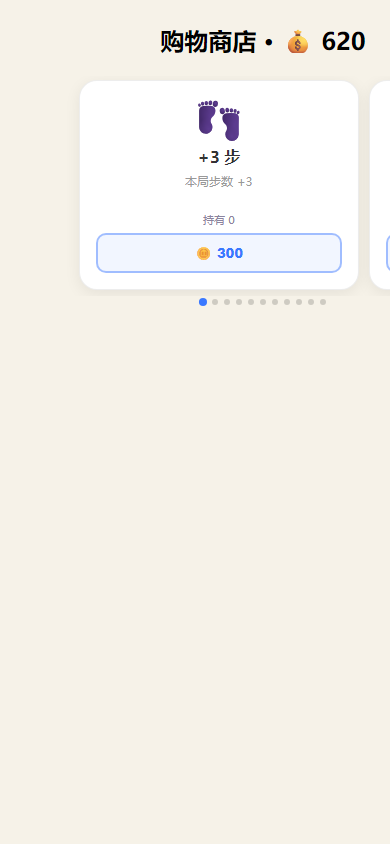
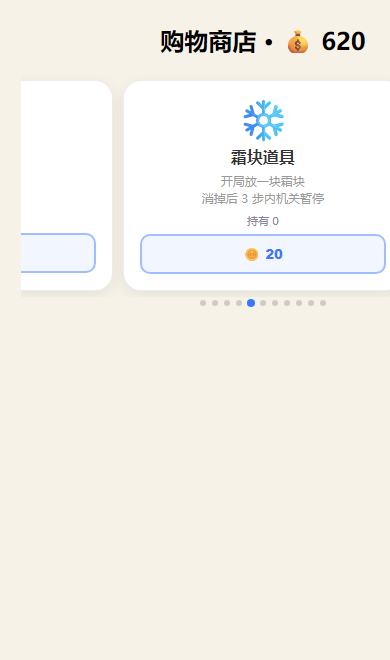
Update files

diff --git a/test-smoke.js b/test-smoke.js
@@ -694,10 +694,11 @@ function check(name, ok) {
   check('更多玩法右上角黑色 + 最佳分带「分」',
     cssSrc.includes('.mode-head span { font-size: 11px; color: #222;') &&
     jsSrc.includes("'最佳 ' + best[k] + ' 分'"));
-  check('商店有「开局线消」200 金币，排在开局炸弹上面',
-    fs.readFileSync(path.join(__dirname, 'js', 'tasks.js'), 'utf8').includes("{ key: 'startLine', name: '开局线消', price: 200") &&
-    fs.readFileSync(path.join(__dirname, 'js', 'tasks.js'), 'utf8').indexOf("key: 'startLine'") <
-      fs.readFileSync(path.join(__dirname, 'js', 'tasks.js'), 'utf8').indexOf("key: 'startBomb'"));
+  check('商店有「线消道具」300 金币（比 180 的炸弹贵，按消除得分定价）', (() => {
+    const t = fs.readFileSync(path.join(__dirname, 'js', 'tasks.js'), 'utf8');
+    return t.includes("{ key: 'startLine', name: '线消道具', price: 300") &&
+      t.indexOf("key: 'startLine'") > t.indexOf("key: 'startBomb'");
+  })());
   check('所有滑动区域不显示滚动条灰线',
     cssSrc.includes('*::-webkit-scrollbar { width: 0; height: 0; display: none; }') &&
     !cssSrc.includes('scrollbar-thumb'));
@@ -2475,7 +2476,7 @@ function check(name, ok) {
     });
   })());
 
-  check('README 极简化：有目录板块且按仓库根列表顺序，不再写长篇玩法', (() => {
+  check('README 目录是树形结构（├──/└── + 行内说明），仓库根列表顺序不变', (() => {
     const md = fs.readFileSync('README.md', 'utf8');
     const order = ['_backend', '_preview', '_sql', 'assets', 'css', 'js',
       '.gen-preview.js', '.gitattributes', '.gitignore',
@@ -2483,25 +2484,40 @@ function check(name, ok) {
       'README.md', '_gen-chaptermap.js', '_gen-levels.js', 'index.html',
       'project.config.json', 'project.private.config.json', 'test-longpress.js', 'test-smoke.js'];
     let pos = -1;
-    return order.every((name) => {
+    const inOrder = order.every((name) => {
       const i = md.indexOf(name, pos + 1);
       if (i < 0) return false;
       pos = i;
       return true;
-    }) && md.length < 2800 && /^\s{2}- /m.test(md);
+    });
+    return inOrder && /├── /.test(md) && /└── /.test(md) && /│   └── /.test(md) &&
+      /├── js\/\s+# 游戏逻辑/.test(md) && md.length < 3200;
   })());
 
-  check('商店按「难易 × 能力」排价：新道具齐全且价格阶梯递增', (() => {
+  check('商店按「消除得分」定价：颜料 500 > 线消 300 > 螺旋桨 250 > 彩虹 230 > 磁铁 210 > 炸弹 180 > 霜块 20', (() => {
     const shop = sandbox.Tasks.SHOP;
     const by = (k) => shop.find((x) => x.key === k);
-    const need = ['startFrost', 'startMagnet', 'startPropeller', 'startPaint'];
+    const need = ['startFrost', 'startBomb', 'startMagnet', 'rainbow', 'startPropeller', 'startLine', 'startPaint'];
     if (!need.every((k) => by(k))) return false;
-    return by('startLine').price === 200 && by('startBomb').price === 200 &&
-      by('startFrost').price === 300 && by('startMagnet').price === 350 &&
-      by('startPropeller').price === 400 && by('startPaint').price === 450 &&
-      by('rainbow').price === 500 &&
-      by('startFrost').icon === '❄' && by('startMagnet').icon === '🧲' &&
-      by('startPropeller').icon === '🛩' && by('startPaint').icon === '🎨';
+    return by('startPaint').price === 500 && by('startLine').price === 300 &&
+      by('startPropeller').price === 250 && by('rainbow').price === 230 &&
+      by('startMagnet').price === 210 && by('startBomb').price === 180 &&
+      by('startFrost').price === 20 &&
+      // 商店里特殊道具按价格从低到高排，霜块最便宜、颜料最贵
+      shop.findIndex((x) => x.price === 20) < shop.findIndex((x) => x.price === 500);
+  })());
+
+  check('特殊道具都叫「xx道具」，说明里不留分号、后半句换行显示', (() => {
+    const shop = sandbox.Tasks.SHOP;
+    const specials = ['startFrost', 'startBomb', 'startMagnet', 'startPropeller', 'startLine', 'startPaint', 'rainbow'];
+    const namesOk = specials.every((k) => {
+      const it = shop.find((x) => x.key === k);
+      return it && /道具$/.test(it.name) && !/^开局/.test(it.name);
+    });
+    const noSemi = specials.every((k) => shop.find((x) => x.key === k).desc.indexOf('；') < 0);
+    const multi = ['startFrost', 'startMagnet', 'startPropeller', 'startPaint']
+      .every((k) => shop.find((x) => x.key === k).desc.indexOf('\n') > 0);
+    return namesOk && noSemi && multi && /desc\.replace\(\/\\n\/g, '<br>'\)/.test(jsSrc);
   })());
 
   check('商店做成横滑卡片（一次一张 + 圆点指示），背包仍是竖排列表',

diff --git a/index.html b/index.html
@@ -12,8 +12,8 @@
 <link rel="preload" as="image" type="image/webp" href="./assets/4.webp">
 <link rel="preload" as="image" type="image/webp" href="./assets/5.webp">
 <link rel="preload" as="image" type="image/png" href="./assets/nailong.png">
-<link rel="stylesheet" href="./css/style.css?v=20261108r">
-<link rel="stylesheet" href="./css/themes.css?v=20261108r">
+<link rel="stylesheet" href="./css/style.css?v=20261108s">
+<link rel="stylesheet" href="./css/themes.css?v=20261108s">
 </head>
 <body data-theme="grass" data-view="menu">
 <div class="game-container">
@@ -300,7 +300,7 @@
         <p><b>📅 每日挑战</b>：拿到 3 星时，当天封盘；每个玩家的棋盘都是随机布局。</p>
         <p><b>🎮 更多玩法</b>：无尽模式、60 秒冲刺、节奏关卡，成绩单独记，<b>不提供续命</b>。</p>
         <p><b>🎁 签到</b>：每天 <b>50 金币</b>；连续签到每满 7 天（7 / 14 / 21 / 28…）额外送 <b>200 金币</b>到邮箱。断签可 <b>300 金币</b> 补签；旁边每日<b>转盘</b>免费 1 次。</p>
-        <p><b>🛒 购物商店</b>：+3 步、+7s、洗牌、撤回、开局线消 / 炸弹、霜块、磁铁、螺旋桨、颜料、彩虹，买前弹确认；商店里左右滑动看道具。</p>
+        <p><b>🛒 购物商店</b>：+3 步、+7s、洗牌、撤回，以及线消 / 炸弹 / 霜块 / 磁铁 / 螺旋桨 / 颜料 / 彩虹道具，买前弹确认；商店里左右滑动看道具。</p>
         <p><b>🎨 棋盘配色</b>：按总星星解锁，只换光晕和目标栏底色。</p>
         <p><b>🏅 成就</b>：每枚 5 阶（灰 → 铜 → 银 → 金 → 彩），升一阶奖 <b>50 / 100 / 150 / 200</b> 金币；点进某一枚直接停在<b>已解锁的最高阶</b>，左右滑看各阶奖杯、领奖，没领的会亮<b>小红点</b>。</p>
         <p><b>📊 排行榜</b>：<b>总榜 → 省榜 → 局榜</b>，分数左边带星星，最多显示 20 名。</p>
@@ -999,22 +999,22 @@
   </div>
 </div>
 
-<script src="./js/rng.js?v=20261108r"></script>
-<script src="./js/storage.js?v=20261108r"></script>
-<script src="./js/audio.js?v=20261108r"></script>
-<script src="./js/effects.js?v=20261108r"></script>
-<script src="./js/specials.js?v=20261108r"></script>
-<script src="./js/goals.js?v=20261108r"></script>
-<script src="./js/tasks.js?v=20261108r"></script>
-<script src="./js/mail.js?v=20261108r"></script>
-<script src="./js/input.js?v=20261108r"></script>
-<script src="./js/builtin-music.js?v=20261108r"></script>
-<script src="./js/music.js?v=20261108r"></script>
-<script src="./js/meta.js?v=20261108r"></script>
-<script src="./js/cloud-config.js?v=20261108r"></script>
-<script src="./js/cloud.js?v=20261108r"></script>
-<script src="./js/account.js?v=20261108r"></script>
-<script src="./js/board.js?v=20261108r"></script>
-<script src="./js/game.js?v=20261108r"></script>
+<script src="./js/rng.js?v=20261108s"></script>
+<script src="./js/storage.js?v=20261108s"></script>
+<script src="./js/audio.js?v=20261108s"></script>
+<script src="./js/effects.js?v=20261108s"></script>
+<script src="./js/specials.js?v=20261108s"></script>
+<script src="./js/goals.js?v=20261108s"></script>
+<script src="./js/tasks.js?v=20261108s"></script>
+<script src="./js/mail.js?v=20261108s"></script>
+<script src="./js/input.js?v=20261108s"></script>
+<script src="./js/builtin-music.js?v=20261108s"></script>
+<script src="./js/music.js?v=20261108s"></script>
+<script src="./js/meta.js?v=20261108s"></script>
+<script src="./js/cloud-config.js?v=20261108s"></script>
+<script src="./js/cloud.js?v=20261108s"></script>
+<script src="./js/account.js?v=20261108s"></script>
+<script src="./js/board.js?v=20261108s"></script>
+<script src="./js/game.js?v=20261108s"></script>
 </body>
 </html>

diff --git a/_preview/shop-cards.html b/_preview/shop-cards.html
@@ -21,24 +21,24 @@
       { key: 'extraTime', name: '+7s', price: 300, desc: '本局时间 +7s（限时关）', icon: '⏱' },
       { key: 'shuffle', name: '洗牌 +1', price: 150, desc: '重排棋盘一次', icon: '🔄' },
       { key: 'undo', name: '撤回 +1', price: 150, desc: '回退上一步', icon: '↩' },
-      { key: 'startLine', name: '开局线消', price: 200, desc: '开局在随机位置放一条线消', icon: '➖' },
-      { key: 'startBomb', name: '开局炸弹', price: 200, desc: '开局在随机位置放一颗炸弹', icon: '💣' },
-      { key: 'startFrost', name: '开局霜块', price: 300, desc: '开局放一块霜块；消掉后 3 步机关暂停', icon: '❄' },
-      { key: 'startMagnet', name: '开局磁铁', price: 350, desc: '开局放一块磁铁；吸同行同列同色一起消', icon: '🧲' },
-      { key: 'startPropeller', name: '开局螺旋桨', price: 400, desc: '开局放一块螺旋桨；斜扫两条对角线', icon: '🛩' },
-      { key: 'startPaint', name: '开局颜料', price: 450, desc: '开局放一块颜料；把一大片刷成同色', icon: '🎨' },
-      { key: 'rainbow', name: '彩虹道具', price: 500, desc: '随机把一块变成彩虹', icon: '🌈' }
+      { key: 'startFrost', name: '霜块道具', price: 20, desc: '开局放一块霜块\n消掉后 3 步内机关暂停', icon: '❄' },
+      { key: 'startBomb', name: '炸弹道具', price: 180, desc: '开局在随机位置放一颗炸弹', icon: '💣' },
+      { key: 'startMagnet', name: '磁铁道具', price: 210, desc: '开局放一块磁铁\n吸同行同列同色一起消', icon: '🧲' },
+      { key: 'rainbow', name: '彩虹道具', price: 230, desc: '随机把一块变成彩虹', icon: '🌈' },
+      { key: 'startPropeller', name: '螺旋桨道具', price: 250, desc: '开局放一块螺旋桨\n斜扫两条对角线', icon: '🛩' },
+      { key: 'startLine', name: '线消道具', price: 300, desc: '开局在随机位置放一条线消', icon: '➖' },
+      { key: 'startPaint', name: '颜料道具', price: 500, desc: '开局放一块颜料\n把一大片刷成同一种颜色', icon: '🎨' }
     ];
     const coins = 620;
     const list = document.getElementById('shop-list');
-    SHOP.forEach((item, i) => {
+    SHOP.forEach((item) => {
       const card = document.createElement('div');
       card.className = 'shop-card';
       card.innerHTML =
         '<span class="shop-card-ico">' + item.icon + '</span>' +
         '<b class="shop-card-name">' + item.name + '</b>' +
-        '<small class="shop-card-desc">' + item.desc + '</small>' +
-        '<span class="shop-card-own">持有 ' + (i % 3) + '</span>' +
+        '<small class="shop-card-desc">' + item.desc.replace(/\n/g, '<br>') + '</small>' +
+        '<span class="shop-card-own">持有 0</span>' +
         '<button class="shop-buy" ' + (coins < item.price ? 'disabled' : '') + '>🪙 ' + item.price + '</button>';
       list.appendChild(card);
     });
@@ -48,6 +48,15 @@
       d.className = 'shop-dot' + (i === 0 ? ' on' : '');
       dots.appendChild(d);
     });
+    // ?i=4 之类：滚到指定卡片，方便截图
+    const idx = Number(new URLSearchParams(location.search).get('i') || 0);
+    if (idx > 0) {
+      const stage = document.getElementById('shop-stage');
+      const cards = list.children;
+      const step = cards[0].offsetWidth + 10;
+      stage.scrollLeft = idx * step;
+      [...dots.children].forEach((d, k) => d.classList.toggle('on', k === idx));
+    }
   </script>
 </body>
 </html>

diff --git a/js/tasks.js b/js/tasks.js
@@ -21,21 +21,22 @@
     { id: 'score5000', desc: '累计获得 5000 分', target: 5000, reward: 60, event: 'score' }
   ];
 
-  // 商店：价格按「生成难度 × 能力大小」排成阶梯
-  // 150 洗牌 / 撤回 ｜ 200 线消 / 炸弹 ｜ 300 霜块、+3 步 / +7s
-  // 350 磁铁 ｜ 400 螺旋桨 ｜ 450 颜料 ｜ 500 彩虹
+  // 商店：价格按「被消除时能拿多少分」定——分数 = 消掉的格数 × 10，
+  // 8×8 棋盘、6 色实测平均：颜料 25 格 250 分 ｜ 线消 15 格 150 分 ｜ 螺旋桨 12.5 格 125 分
+  // 彩虹 11.7 格 117 分 ｜ 磁铁 10.7 格 107 分 ｜ 炸弹 9 格 90 分 ｜ 霜块 1 格 10 分
+  // 价格 = 分数 × 2（取整到 10）：颜料 500 > 线消 300 > 螺旋桨 250 > 彩虹 230 > 磁铁 210 > 炸弹 180 > 霜块 20
   const SHOP = [
     { key: 'extraMoves', name: '+3 步', price: 300, desc: '本局步数 +3', icon: '👣' },
     { key: 'extraTime', name: '+7s', price: 300, desc: '本局时间 +7s（限时关）', icon: '⏱' },
     { key: 'shuffle', name: '洗牌 +1', price: 150, desc: '重排棋盘一次', icon: '🔄' },
     { key: 'undo', name: '撤回 +1', price: 150, desc: '回退上一步', icon: '↩' },
-    { key: 'startLine', name: '开局线消', price: 200, desc: '开局在随机位置放一条线消', icon: '➖' },
-    { key: 'startBomb', name: '开局炸弹', price: 200, desc: '开局在随机位置放一颗炸弹', icon: '💣' },
-    { key: 'startFrost', name: '开局霜块', price: 300, desc: '开局放一块霜块；消掉后 3 步机关暂停', icon: '❄' },
-    { key: 'startMagnet', name: '开局磁铁', price: 350, desc: '开局放一块磁铁；吸同行同列同色一起消', icon: '🧲' },
-    { key: 'startPropeller', name: '开局螺旋桨', price: 400, desc: '开局放一块螺旋桨；斜扫两条对角线', icon: '🛩' },
-    { key: 'startPaint', name: '开局颜料', price: 450, desc: '开局放一块颜料；把一大片刷成同色', icon: '🎨' },
-    { key: 'rainbow', name: '彩虹道具', price: 500, desc: '随机把一块变成彩虹', icon: '🌈' }
+    { key: 'startFrost', name: '霜块道具', price: 20, desc: '开局放一块霜块\n消掉后 3 步内机关暂停', icon: '❄' },
+    { key: 'startBomb', name: '炸弹道具', price: 180, desc: '开局在随机位置放一颗炸弹', icon: '💣' },
+    { key: 'startMagnet', name: '磁铁道具', price: 210, desc: '开局放一块磁铁\n吸同行同列同色一起消', icon: '🧲' },
+    { key: 'rainbow', name: '彩虹道具', price: 230, desc: '随机把一块变成彩虹', icon: '🌈' },
+    { key: 'startPropeller', name: '螺旋桨道具', price: 250, desc: '开局放一块螺旋桨\n斜扫两条对角线', icon: '🛩' },
+    { key: 'startLine', name: '线消道具', price: 300, desc: '开局在随机位置放一条线消', icon: '➖' },
+    { key: 'startPaint', name: '颜料道具', price: 500, desc: '开局放一块颜料\n把一大片刷成同一种颜色', icon: '🎨' }
   ];
 
   function todayStr() {

diff --git a/js/game.js b/js/game.js
@@ -3453,7 +3453,7 @@
       card.innerHTML =
         '<span class="shop-card-ico">' + item.icon + '</span>' +
         '<b class="shop-card-name">' + item.name + '</b>' +
-        '<small class="shop-card-desc">' + item.desc + '</small>' +
+        '<small class="shop-card-desc">' + item.desc.replace(/\n/g, '<br>') + '</small>' +
         '<span class="shop-card-own">持有 ' + (wallet.items[item.key] || 0) + '</span>' +
         '<button class="shop-buy" ' + (wallet.coins < item.price ? 'disabled' : '') + '>🪙 ' + item.price + '</button>';
       card.querySelector('.shop-buy').addEventListener('click', () => {
@@ -3610,7 +3610,7 @@
       row.className = 'shop-row';
       row.innerHTML =
         '<span class="shop-icon">' + item.icon + '</span>' +
-        '<div class="shop-info"><b>' + item.name + '</b><small>' + item.desc + '</small></div>' +
+        '<div class="shop-info"><b>' + item.name + '</b><small>' + item.desc.replace(/\n/g, '<br>') + '</small></div>' +
         '<span class="shop-own">x' + wallet.items[item.key] + '</span>';
       const useBtn = document.createElement('button');
       useBtn.className = 'shop-buy';

diff --git a/README.md b/README.md
@@ -6,30 +6,55 @@
 
 ## 目录
 
-- `_backend/` — 云端账号接口（Cloudflare Pages Functions）
-  - `_worker.js` 登录 / 读档 / 存档接口
-  - `schema.sql` 表结构
-- `_preview/` — 预览与调试页
-  - `*.html` 单页预览（盘面、成就、章节地图等）、`*.png` 对应截图
-- `_sql/` — 数据库脚本
-  - `1_register.sql`、`2_login.sql`、`3_load.sql`、`4_save.sql`
-- `assets/` — 贴图与音乐
-  - `0~5.jpg / .webp` 六种方块图案、`rainbow*.jpg` 彩杯填充、`nailong.png` 吉祥物、`music/` 内置歌曲
-- `css/` — 样式
-  - `style.css` 页面布局、`themes.css` 主题配色与各面板组件
-- `js/` — 游戏逻辑
-  - `game.js` 主控（棋盘、交换、消除、动画、结算、面板）、`levels.json` 80 关数据
-  - `specials.js` 特殊块生成与融合、`goals.js` 关卡目标、`board.js` 棋盘、`meta.js` 元数据
-  - `storage.js` 存档与钱包、`tasks.js` 每日任务与商店、`input.js` 输入、`rng.js` 随机、`effects.js` 特效
-  - `account.js` / `cloud.js` / `mail.js` 账号、云存档、邮箱
-  - `audio.js` / `music.js` / `builtin-music.js` 音效与音乐
-- `.gen-preview.js` — 批量生成预览图
-- `.gitattributes` / `.gitignore` — Git 配置
-- `04e09ed9f0027f5098706fd59f75b873.txt` / `969204503f687f55d49123a656b135b9.txt` — 文本附件（哈希记录）
-- `README.md` — 本说明
-- `_gen-chaptermap.js` — 生成章节地图预览页
-- `_gen-levels.js` — 生成 41~80 关数据
-- `index.html` — 页面骨架与所有面板
-- `project.config.json` / `project.private.config.json` — 微信开发者工具配置
-- `test-longpress.js` — 播放列表长按拖动测试
-- `test-smoke.js` — 无头冒烟测试
+```text
+├── _backend/                          # 云端账号接口（Cloudflare Pages Functions）
+│   ├── _worker.js                     # 登录 / 读档 / 存档接口
+│   └── schema.sql                     # 表结构
+├── _preview/                          # 预览与调试页
+│   ├── *.html                         # 单页预览（盘面、成就、章节地图等）
+│   └── *.png                          # 对应截图
+├── _sql/                              # 数据库脚本
+│   ├── 1_register.sql                 # 注册
+│   ├── 2_login.sql                    # 登录
+│   ├── 3_load.sql                     # 读档
+│   └── 4_save.sql                     # 存档
+├── assets/                            # 贴图与音乐
+│   ├── 0~5.jpg / 0~5.webp             # 六种方块图案
+│   ├── rainbow.jpg / rainbow-cup.jpg  # 彩杯与彩虹填充
+│   ├── nailong.png                    # 吉祥物
+│   └── music/                         # 内置歌曲
+├── css/                               # 样式
+│   ├── style.css                      # 页面布局
+│   └── themes.css                     # 主题配色与各面板组件
+├── js/                                # 游戏逻辑
+│   ├── game.js                        # 主控（棋盘、交换、消除、动画、结算、面板）
+│   ├── levels.json                    # 80 关数据
+│   ├── specials.js                    # 特殊块生成与融合
+│   ├── goals.js                       # 关卡目标
+│   ├── board.js                       # 棋盘
+│   ├── meta.js                        # 成就 / 统计元数据
+│   ├── storage.js                     # 存档与钱包
+│   ├── tasks.js                       # 每日任务与商店
+│   ├── input.js                       # 触摸与点击输入
+│   ├── rng.js                         # 随机数
+│   ├── effects.js                     # 粒子与特效
+│   ├── account.js                     # 本机多账号
+│   ├── cloud.js                       # 云存档
+│   ├── mail.js                        # 邮箱
+│   ├── audio.js                       # 音效
+│   ├── music.js                       # 音乐播放器
+│   └── builtin-music.js               # 内置歌曲数据
+├── .gen-preview.js                    # 批量生成预览图
+├── .gitattributes                     # Git 换行符规则
+├── .gitignore                         # Git 忽略清单
+├── 04e09ed9f0027f5098706fd59f75b873.txt  # 文本附件（哈希记录）
+├── 969204503f687f55d49123a656b135b9.txt  # 文本附件（哈希记录）
+├── README.md                          # 本说明
+├── _gen-chaptermap.js                 # 生成章节地图预览页
+├── _gen-levels.js                     # 生成 41~80 关数据
+├── index.html                         # 页面骨架与所有面板
+├── project.config.json                # 微信开发者工具配置
+├── project.private.config.json        # 微信开发者工具私有配置
+├── test-longpress.js                  # 播放列表长按拖动测试
+└── test-smoke.js                      # 无头冒烟测试
+```
